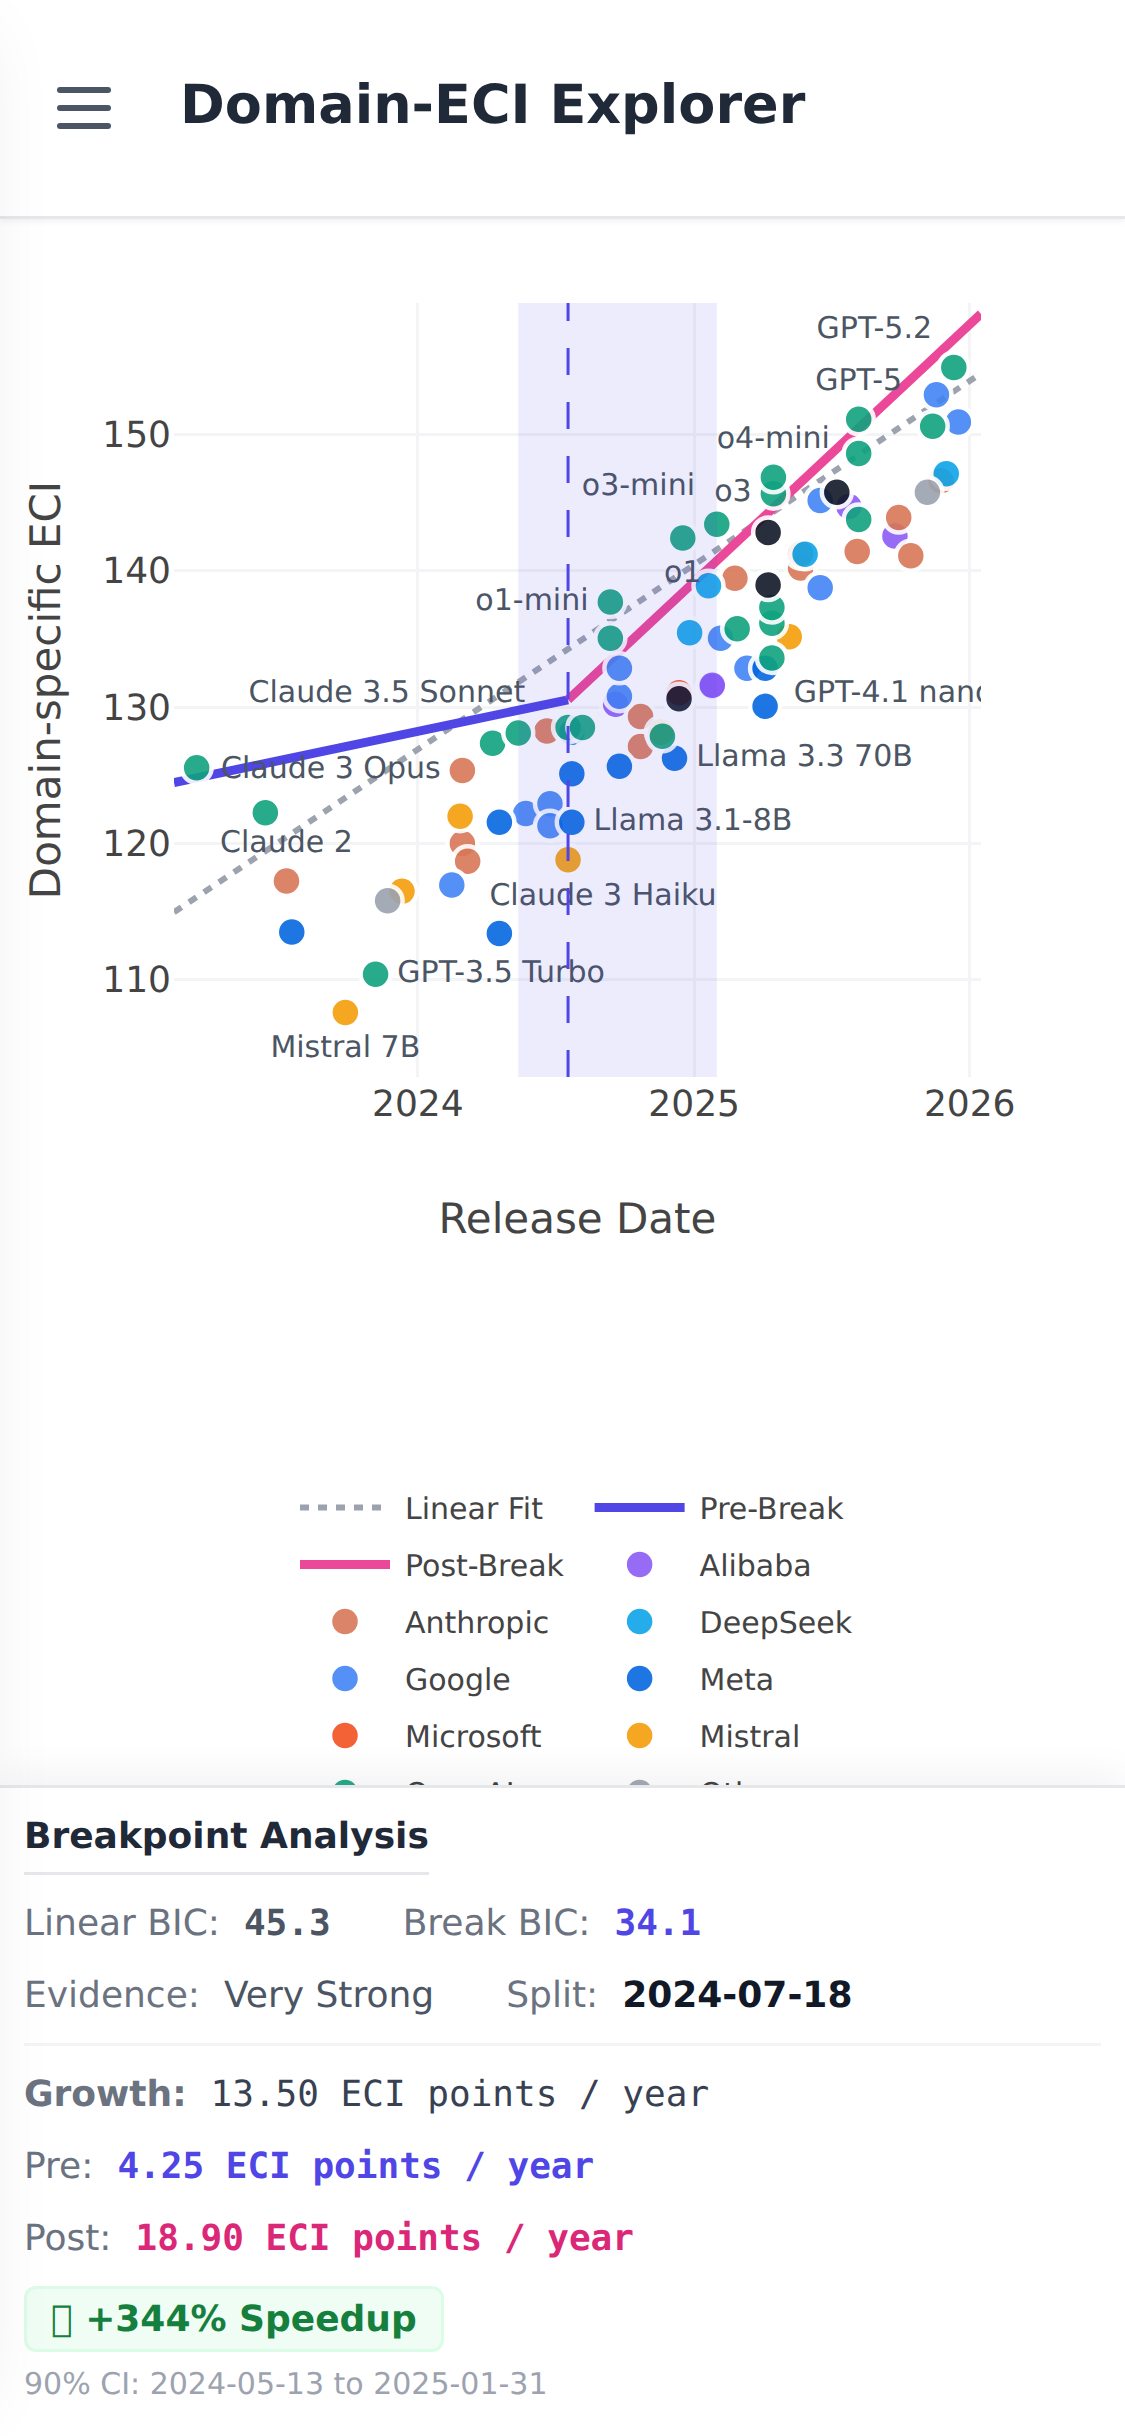
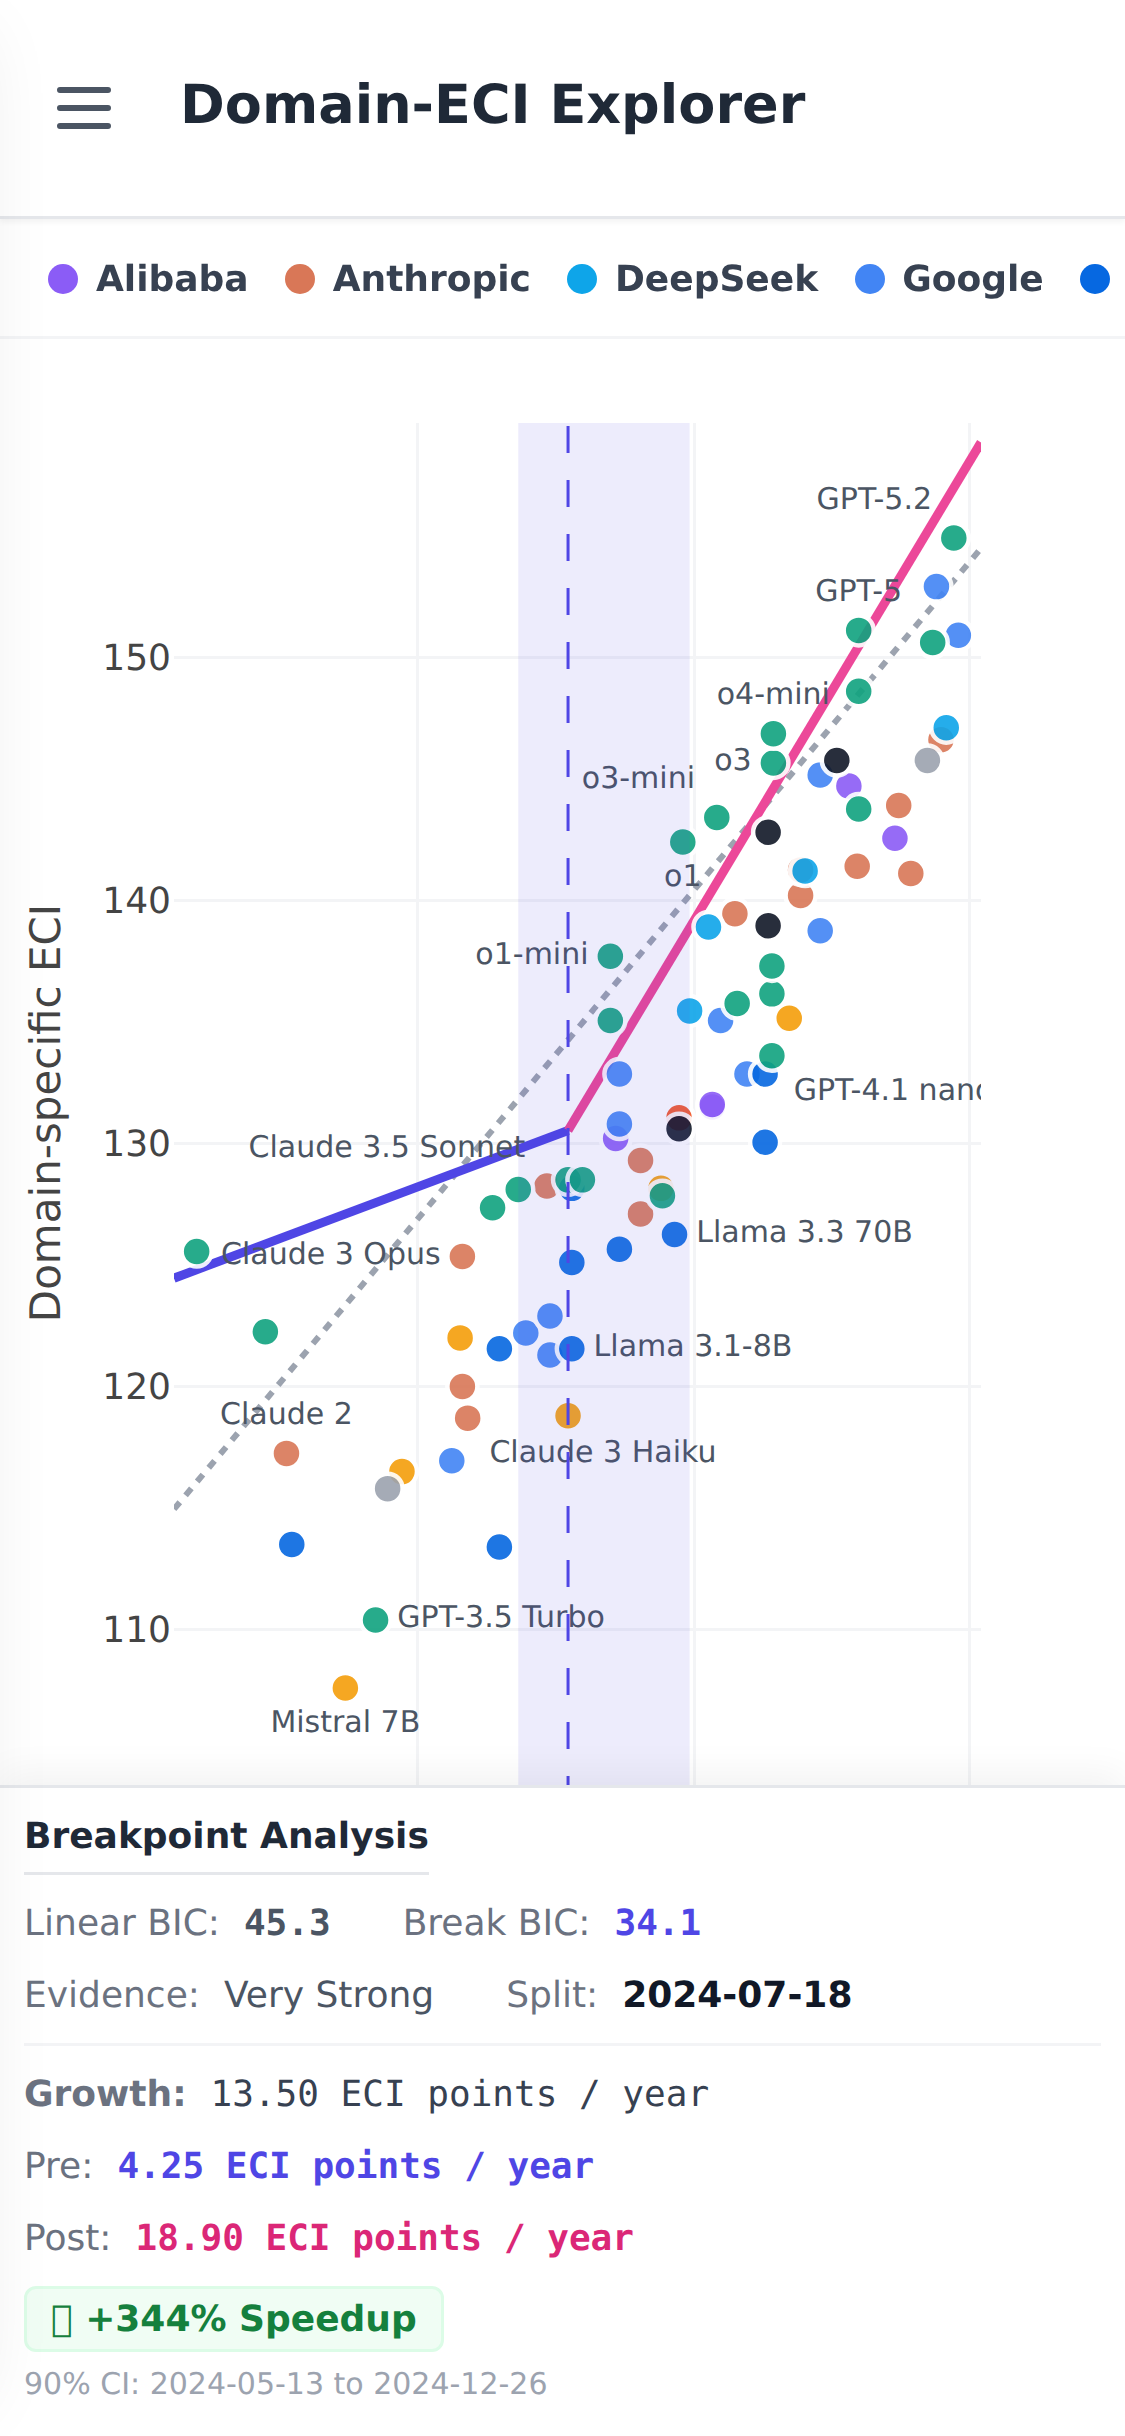
Fix Domain ECI mobile layout: Custom scrollable legend
- Hide native Plotly legend on mobile.
- Implement a custom, horizontally scrollable HTML legend above the chart for mobile devices.
- Adjust chart margins to better utilize space without visual overlap.
- Address feedback regarding legend visibility and layout robustness on small screens.

diff --git a/domain_eci.html b/domain_eci.html
@@ -309,6 +309,9 @@
             </div>
 
             <div class="flex-1 flex flex-col relative overflow-hidden" id="chart-wrapper">
+                <!-- Custom Mobile Legend -->
+                <div id="mobile-chart-legend" class="lg:hidden w-full overflow-x-auto whitespace-nowrap py-2 px-4 border-b border-gray-100 flex gap-3 min-h-[40px] scrollbar-hide"></div>
+
                 <!-- Plotly Chart -->
                 <div class="flex-1 p-2 lg:p-6 relative min-h-0">
                     <div id="chart-container" class="w-full h-full"></div>
@@ -1251,13 +1254,14 @@
                     yaxis: { title: { text: 'Domain-specific ECI', font: { weight: 600 } }, gridcolor: '#f3f4f6', zeroline: false, automargin: true },
                     hovermode: 'closest',
                     template: 'plotly_white',
-                    margin: isMobile ? { t: 20, r: 40, l: 40, b: 200 } : { t: 90, r: 50, l: 80, b: 100 },
+                    margin: isMobile ? { t: 20, r: 40, l: 40, b: 40 } : { t: 90, r: 50, l: 80, b: 100 },
+                    showlegend: !isMobile,
                     legend: {
                         orientation: 'h',
-                        y: isMobile ? -0.5 : -0.15,
+                        y: -0.15,
                         x: 0.5,
                         xanchor: 'center',
-                        font: { size: isMobile ? 10 : 13, weight: 500 }
+                        font: { size: 13, weight: 500 }
                     },
                     font: { family: 'Inter, sans-serif' }
                 };
@@ -1899,6 +1903,25 @@
                         if (!orgGroups[org]) orgGroups[org] = [];
                         orgGroups[org].push(p);
                     });
+
+                    // Render Custom Legend for Mobile
+                    const mobileLegend = document.getElementById('mobile-chart-legend');
+                    if (isMobile && mobileLegend) {
+                        mobileLegend.innerHTML = '';
+                        Object.keys(orgGroups).sort().forEach(org => {
+                            const color = ORG_COLORS[org] || ORG_COLORS['Other'];
+                            const item = document.createElement('div');
+                            item.className = "flex items-center gap-1.5 flex-shrink-0";
+                            item.innerHTML = `
+                                <span class="w-2.5 h-2.5 rounded-full" style="background-color: ${color}"></span>
+                                <span class="text-xs font-semibold text-gray-700">${org}</span>
+                            `;
+                            mobileLegend.appendChild(item);
+                        });
+                        mobileLegend.classList.remove('hidden');
+                    } else if (mobileLegend) {
+                        mobileLegend.classList.add('hidden');
+                    }
 
                     // Create Traces
                     Object.keys(orgGroups).sort().forEach(org => {
